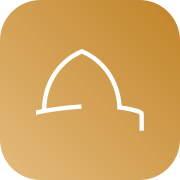
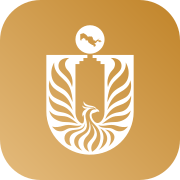
Lead with the full forum lockup, and repair the source decks' region lines
The State Emblem in the organiser's lockup is now used, on the client's
instruction: the lockup carries the header, the title card and the footer,
and the emblem alone is the site icon. It arrives a part at a time - the
emblem settles first, then the three lines of type rise underneath it.

The concept/demo disclaimer stays on.

Eight projects introduced themselves as being in Namangan, left behind by
the shared template; the region word is now rewritten to the one the deck
was filed under. Bukhara's gastro-bazar was filed as "Medical tourism",
carried over from the salt-mine slide before it, and is corrected.

Claude-Session: https://claude.ai/code/session_016J8uwMdTvHSNYSrU7NoSK4

Changed region(s): [[0.1944, 0.1389, 0.8056, 0.8611]]

diff --git a/src/components/ForumMark.vue b/src/components/ForumMark.vue
@@ -1,0 +1,135 @@
+<script setup lang="ts">
+/**
+ * The forum's mark, inlined so it can be animated.
+ *
+ * `scripts/process-logos.mjs` exports both files with their parts as separate
+ * `<g id="…">` elements — the State Emblem and then each of the three lines of
+ * type — which is the whole reason these are inlined rather than linked as
+ * images: the parts arrive one after another, and the gold gradient keeps
+ * drifting under them afterwards so the mark never looks like a flat sticker.
+ *
+ * `form` picks between the full lockup, emblem and all, and the wordmark on its
+ * own. The wordmark exists for slots too small or too wide for the emblem to
+ * survive; the client has confirmed the lockup is the mark to lead with.
+ */
+import { computed, onBeforeUnmount, onMounted, ref, useId } from 'vue';
+
+import lockupGold from '../assets/forum-lockup.svg?raw';
+import lockupWhite from '../assets/forum-lockup-white.svg?raw';
+import wordmarkGold from '../assets/forum-wordmark.svg?raw';
+import wordmarkWhite from '../assets/forum-wordmark-white.svg?raw';
+import { canAnimate, gsap } from '../lib/motion';
+
+const props = withDefaults(
+  defineProps<{
+    form?: 'lockup' | 'wordmark';
+    variant?: 'gold' | 'white';
+    /** Animate on mount. Off for the small mark in the header. */
+    animate?: boolean;
+    /** Keep the gradient drifting after the parts have landed. */
+    drift?: boolean;
+  }>(),
+  { form: 'lockup', variant: 'gold', animate: false, drift: false },
+);
+
+const SOURCES = {
+  'lockup-gold': lockupGold,
+  'lockup-white': lockupWhite,
+  'wordmark-gold': wordmarkGold,
+  'wordmark-white': wordmarkWhite,
+};
+
+const uid = useId();
+const root = ref<HTMLElement | null>(null);
+
+/**
+ * Ids inside each file are unique per file, not per instance, and the mark
+ * appears more than once on the page. Suffixing every id and every url(#…)
+ * reference keeps two instances from sharing one gradient.
+ */
+const markup = computed(() =>
+  SOURCES[`${props.form}-${props.variant}` as keyof typeof SOURCES]
+    .replace(/id="([^"]+)"/g, (_, id: string) => `id="${id}-${uid}"`)
+    .replace(/url\(#([^)]+)\)/g, (_, id: string) => `url(#${id}-${uid})`),
+);
+
+let tween: gsap.core.Timeline | null = null;
+
+onMounted(() => {
+  if (!props.animate || !canAnimate() || !root.value) return;
+  const parts = root.value.querySelectorAll('svg > g > g');
+  const gradient = root.value.querySelector('linearGradient');
+  if (!parts.length) return;
+
+  tween = gsap.timeline();
+
+  // On the lockup the first group is the emblem: it settles rather than rises,
+  // so the three lines of type read as arriving underneath something already
+  // standing.
+  if (props.form === 'lockup' && parts.length > 1) {
+    tween
+      .from(parts[0] as SVGGElement, {
+        opacity: 0,
+        scale: 0.86,
+        transformOrigin: '50% 50%',
+        duration: 0.9,
+        ease: 'power3.out',
+      })
+      .from(
+        Array.from(parts).slice(1),
+        { opacity: 0, yPercent: 16, duration: 0.85, stagger: 0.14, ease: 'power3.out' },
+        '-=0.55',
+      );
+  } else {
+    tween.from(parts, { opacity: 0, yPercent: 16, duration: 0.85, stagger: 0.14, ease: 'power3.out' });
+  }
+
+  // The artwork's gradient runs bottom-left to top-right. Rocking its axis a
+  // few degrees reads as light moving across metal rather than as an effect.
+  if (props.drift && gradient) {
+    tween.to(
+      gradient,
+      {
+        attr: { x1: 0.35, y1: 0.85, x2: 1.25, y2: 0.1 },
+        duration: 7,
+        ease: 'sine.inOut',
+        repeat: -1,
+        yoyo: true,
+      },
+      '-=0.4',
+    );
+  }
+});
+
+onBeforeUnmount(() => {
+  tween?.kill();
+  tween = null;
+});
+</script>
+
+<template>
+  <!-- The file carries its own role="img", <title> and aria-label.
+       `markup` is a build-time import of a brand SVG written by
+       scripts/process-logos.mjs and already run through svgo; the only thing
+       done to it at runtime is suffixing its ids. No input reaches it. -->
+  <!-- eslint-disable-next-line vue/no-v-html -->
+  <div ref="root" class="mark" v-html="markup" />
+</template>
+
+<style scoped>
+.mark :deep(svg) {
+  display: block;
+  width: 100%;
+  height: auto;
+}
+/* Sized by height instead — the header has a bar to fit inside, not a column.
+   The wrapper has to take the height too, or the svg's `height: 100%` resolves
+   against an auto-height box and collapses to nothing. */
+.mark--by-height {
+  height: 100%;
+}
+.mark--by-height :deep(svg) {
+  width: auto;
+  height: 100%;
+}
+</style>

diff --git a/src/components/SiteChrome.vue b/src/components/SiteChrome.vue
@@ -9,7 +9,7 @@
 import { computed, onBeforeUnmount, onMounted, ref } from 'vue';
 import { useI18n } from 'vue-i18n';
 
-import ForumWordmark from './ForumWordmark.vue';
+import ForumMark from './ForumMark.vue';
 import { scrollToId } from '../lib/motion';
 import { setLang, useStore } from '../lib/state';
 import { LANGS, type Lang } from '../lib/shared/content-types';
@@ -136,7 +136,7 @@ function choose(code: Lang) {
       @click.prevent="go('prologue')"
     >
       <!-- The link carries the name; the mark inside it must not repeat it. -->
-      <ForumWordmark variant="white" aria-hidden="true" />
+      <ForumMark form="lockup" variant="white" class="mark--by-height" aria-hidden="true" />
     </a>
 
     <div class="bar__right">
@@ -208,7 +208,7 @@ function choose(code: Lang) {
   align-items: center;
   justify-content: space-between;
   gap: 1rem;
-  padding: 1.25rem clamp(1rem, 3vw, 2.5rem);
+  padding: 0.9rem clamp(1rem, 3vw, 2.5rem);
   background: linear-gradient(to bottom, rgb(5 7 10 / 0.85), transparent);
   transition: background-color 0.25s, border-color 0.25s;
 }
@@ -220,10 +220,10 @@ function choose(code: Lang) {
   backdrop-filter: blur(10px);
 }
 .logo {
-  /* The wordmark is three lines of type at 1.91:1; sizing by width keeps it
-     from eating the header's height on small screens. */
+  /* The lockup is 1.33:1 — nearly square — so in a bar it is sized by height,
+     not by width, or it pushes the bar open on small screens. */
   display: block;
-  width: clamp(4.75rem, 12vw, 7.5rem);
+  height: clamp(3rem, 6.5vw, 4rem);
 }
 
 .bar__right {

diff --git a/src/chapters/ChPrologue.vue b/src/chapters/ChPrologue.vue
@@ -8,7 +8,7 @@
 import { computed, defineAsyncComponent, onMounted, ref, shallowRef } from 'vue';
 import { useI18n } from 'vue-i18n';
 
-import ForumWordmark from '../components/ForumWordmark.vue';
+import ForumMark from '../components/ForumMark.vue';
 import { canAnimate, hasWebGl, onIdle, scrollToId, useChapterTimeline } from '../lib/motion';
 import { eventDates, tr, useStore } from '../lib/state';
 
@@ -76,7 +76,7 @@ useChapterTimeline(
 
       <h1 class="prologue__mark">
         <span class="sr-only">{{ event ? tr(event.name) : '' }}</span>
-        <ForumWordmark animate drift aria-hidden="true" />
+        <ForumMark form="lockup" animate drift aria-hidden="true" />
       </h1>
 
       <p v-if="event" class="prologue__when prologue__reveal">
@@ -146,7 +146,7 @@ useChapterTimeline(
 .prologue__mark {
   margin-block: 1.5rem 0;
   /* The wordmark is 1.91:1; this keeps it off the right edge on wide screens. */
-  width: min(94%, 30rem);
+  width: min(82%, 23rem);
 }
 
 .prologue__when {

diff --git a/src/chapters/ChEpilogue.vue b/src/chapters/ChEpilogue.vue
@@ -14,7 +14,7 @@
 import { computed, reactive, ref } from 'vue';
 import { useI18n } from 'vue-i18n';
 
-import ForumWordmark from '../components/ForumWordmark.vue';
+import ForumMark from '../components/ForumMark.vue';
 import SourceTag from '../components/SourceTag.vue';
 import { setLang, tr, useStore } from '../lib/state';
 import { formatDate } from '../lib/shared/content';
@@ -279,7 +279,7 @@ async function submit() {
         </p>
 
         <div class="footer__end">
-          <ForumWordmark variant="white" class="footer__mark" />
+          <ForumMark form="lockup" variant="white" class="footer__mark" />
           <div class="footer__langs">
             <button v-for="code in ['uz', 'ru', 'en'] as const" :key="code" type="button" @click="setLang(code)">
               {{ code }}
@@ -605,7 +605,7 @@ h2 {
   gap: 1.5rem;
 }
 .footer__mark {
-  width: clamp(9rem, 20vw, 12rem);
+  width: clamp(7rem, 16vw, 9.5rem);
   opacity: 0.6;
 }
 .footer__langs {

diff --git a/CREDITS.md b/CREDITS.md
@@ -82,12 +82,19 @@ families. It is **not extracted from the agency artwork** (`logo/invest Uzb 2.*`
 those pages are a concept rendering and must not carry state insignia.
 
 The emblem is also part of the Tourism Investment Forum lockup the organiser
-issued (`brand/newlogo/`). That file is extracted, because it is the client's own
-event mark, and `brand/svg/forum-lockup.svg` and `forum-emblem.svg` are built from
-it — but **site 2 does not use them**. The site is built on the emblem-free
-`forum-wordmark`, so nothing on the page carries state insignia. Switching to the
-full lockup is a one-line change in `SiteChrome.vue` and `ChPrologue.vue` if the
-client asks for it.
+issued (`brand/newlogo/`). **Site 2 uses that lockup in full**, on the client's
+written instruction of 2026-10-07: the page is to become the forum's official
+site, and the lockup with the emblem is the mark the organiser issued for it. It
+appears in the header, the title card and the footer, and the emblem alone is the
+site's icon.
+
+`brand/svg/forum-wordmark.svg` remains as the emblem-free reduction, for any slot
+where the emblem would be too small to survive.
+
+The concept/demo disclaimer in the footer is **still switched on**. The client
+authorised the emblem, not the removal of the disclaimer; that is a separate
+decision and `meta.disclaimer_enabled` in `shared/data/content.json` is the single
+switch for it.
 
 ## Third-party organisations
 
